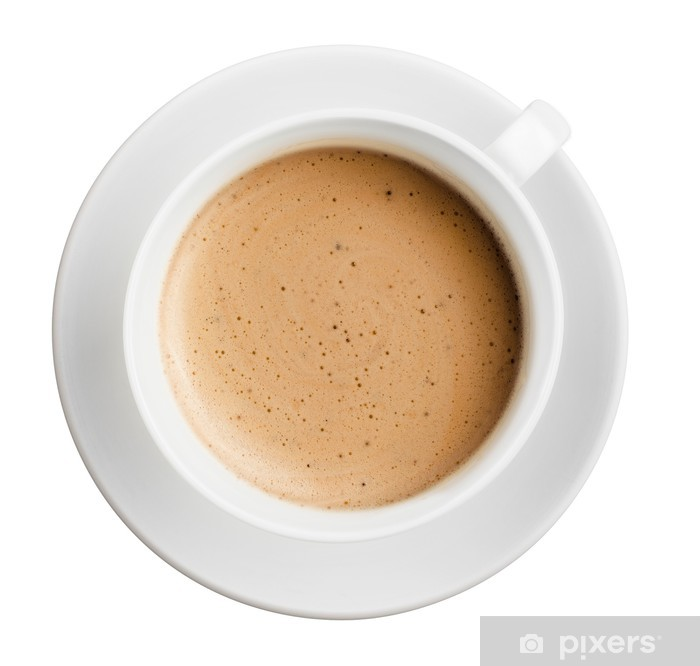
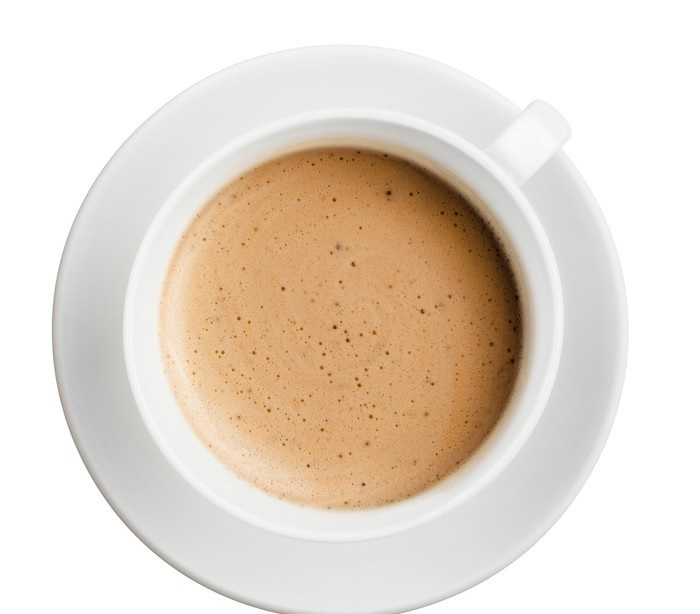
Fixed footer, adjusted images, moved API Image to the about page.

diff --git a/wwwroot/css/site.css b/wwwroot/css/site.css
@@ -8,17 +8,16 @@
 .btn:focus, .btn:active:focus, .btn-link.nav-link:focus, .form-control:focus, .form-check-input:focus {
   box-shadow: 0 0 0 0.1rem white, 0 0 0 0.25rem #258cfb;
 }
-
+*/
 html {
   position: relative;
   min-height: 100%;
 }
-
+    
 body {
   margin-bottom: 60px;
-}*/
-
-/* Override Bootstrap link styles */
+}
+ /* Override Bootstrap link styles */
 a {
     color: darkolivegreen; /* Your desired color value */
     text-decoration: underline; /* Optionally remove underlines */
@@ -45,14 +44,3 @@ a {
         color: white;
         border-color: white;
     }
-
-
-
-#AboutContainer {
-    background-image: url('@ViewBag.ApiPicture');
-    background-size: cover; 
-    background-position: center; 
-    
-
-    color:white;
-}

diff --git a/Controllers/AdminController.cs b/Controllers/AdminController.cs
@@ -222,16 +222,15 @@ public class AdminController : Controller
         // Save changes back to the context
         Context.SaveChanges();
 
-        //email update
-        EmailService emailService = new EmailService();
+        ////email update
+        //EmailService emailService = new EmailService();
 
-        // Define subject and body
-        string subject = "Registration Approved";
-        string body = "Your registration has been approved. You may now visit the site and login!";
-        string recipient = user.Email;
-        // Call SendEmail method with subject and body
-        emailService.SendEmail(recipient, subject, body);
-
+        //// Define subject and body
+        //string subject = "Registration Approved";
+        //string body = "Your registration has been approved. You may now visit the site and login!";
+        //string recipient = user.Email;
+        //// Call SendEmail method with subject and body
+        //emailService.SendEmail(recipient, subject, body);
 
         // Redirect back to index
         return RedirectToAction("Index");

diff --git a/Models/EmailService.cs b/Models/EmailService.cs
@@ -10,7 +10,7 @@ public class EmailService
         SmtpClient smtpClient = new SmtpClient("smtp.gmail.com")
         {
             Port = 587, // Gmail SMTP port
-            Credentials = new NetworkCredential("kopaczjm@gmail.com", "Your-Gmail-Password"),
+            Credentials = new NetworkCredential("kopaczjm@gmail.com", "Password!"),
             EnableSsl = true // Enable SSL encryption
         };
 

diff --git a/Controllers/HomeController.cs b/Controllers/HomeController.cs
@@ -39,7 +39,7 @@ namespace AppsDevCoffee.Controllers
             catch (HttpRequestException ex)
             {
                 // Log or handle the exception
-                ViewBag.HomePicture = "/images/cup_white.jpg";
+                ViewBag.ApiPicture = "/images/coffee_cement.jpg";
             }
         }
 
